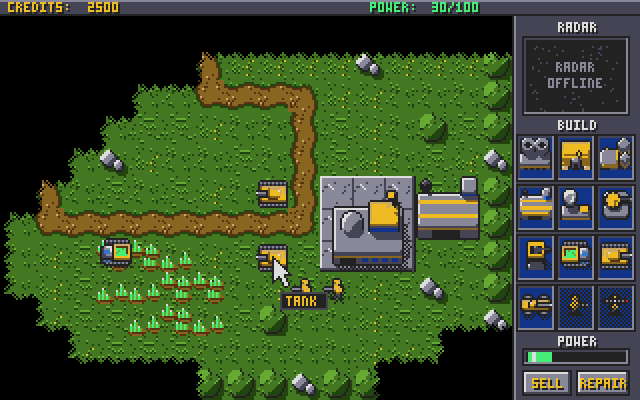
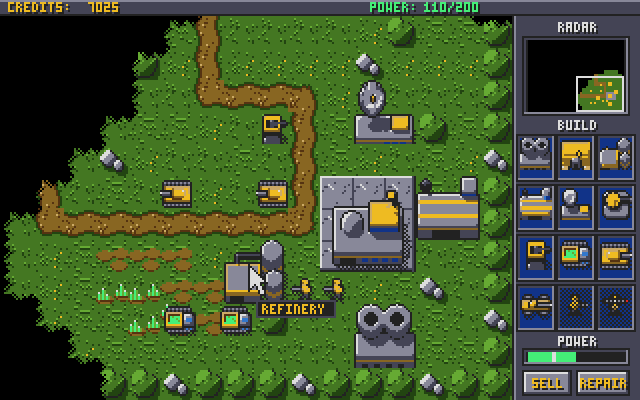
New README screenshots
- Eight screenshots from MAME: the start, a built-up base, the enemy
  attacking it, the enemy's base, a fight there, River Crossing with a
  refinery by the ore, the build icons' name tags and the win banner.
- Fix the screenshot table: a blank line had cut off its last row.

diff --git a/README.md b/README.md
@@ -37,10 +37,11 @@ with Ensoniq sound and music.
 | | |
 |---|---|
 | ![The start of a game](docs/images/start.png) | ![A base](docs/images/base.png) |
-| The start of a game on Green Valley | A base with a radar center, a refinery, a guard tower and a turret |
+| The start of a game on Green Valley: a command center and a war factory | A base with a radar center, a refinery, a guard tower and a turret |
+| ![An attack on the base](docs/images/defense.png) | ![The enemy's base](docs/images/enemy-base.png) |
+| The enemy attacks; the turret and the guard tower fire back | The enemy's base: barracks, war factory, refinery, power plant and guard towers |
 | ![A battle](docs/images/battle.png) | ![River Crossing](docs/images/river-crossing.png) |
-| A fight at the enemy base, its war factory and power plant behind | River Crossing, with a name tag on a tank |
-
+| A fight at the enemy base | River Crossing: a refinery by the ore, with its name tag |
 | ![Build icons](docs/images/build-icons.png) | ![Mission accomplished](docs/images/win.png) |
 | Build icons show their name and price | Mission accomplished |
 
